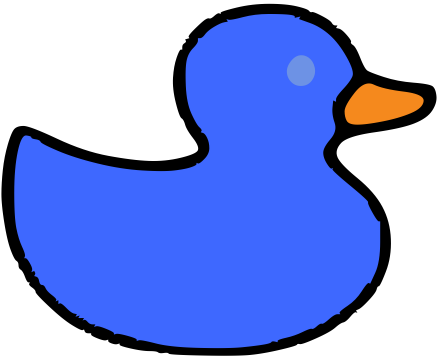
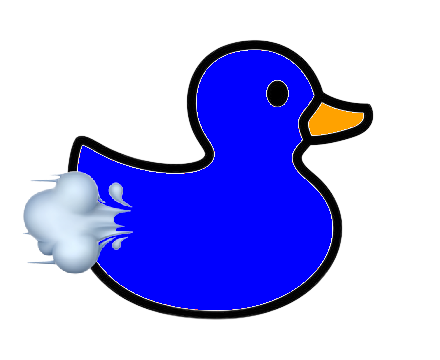
nuove pedine

diff --git a/public/configBoard.js b/public/configBoard.js
@@ -16,7 +16,7 @@ const onClick = (e) => {
   renderMessage();
   casella++;
 
-  let coord = DuckCoords["cell-" + 7]["player-1"];
+  let coord = DuckCoords["cell-" + 21]["player-1"];
   const player1 = document.getElementById("player1");
   player1.style.position = "absolute";
   player1.style.left = coord.x + "px";

diff --git a/public/accedi.php b/public/accedi.php
@@ -2,18 +2,16 @@
 require_once('connessione.php');
 echo "Ciao";
 if ($_SERVER["REQUEST_METHOD"] == "POST") {
-
     $nome = $_POST['Nome'];
     $sql = "SELECT * FROM giocatore WHERE nome = '$nome'";
     $sqlInsert = "INSERT INTO giocatore (nome) VALUES ('$nome')";
-echo "ciao";
     $result = mysqli_query($connessione, $sql);
     echo $result;
 
     if ($result) {
         $numeroRighe = mysqli_num_rows($result);
         echo $numeroRighe;
-        /*if ($numeroRighe > 0) {
+        if ($numeroRighe > 0) {
             // Utente trovato, esegui il reindirizzamento
             header('location: /preGame.html');
             exit();  // Assicurati di terminare lo script qui
@@ -24,7 +22,7 @@ echo "ciao";
             } else {
                 echo "Errore nell'inserimento: " . mysqli_error($connessione);
             }
-        }*/
+        }
     } else {
         echo "Errore nell'esecuzione della query: " . mysqli_error($connessione);
     }
